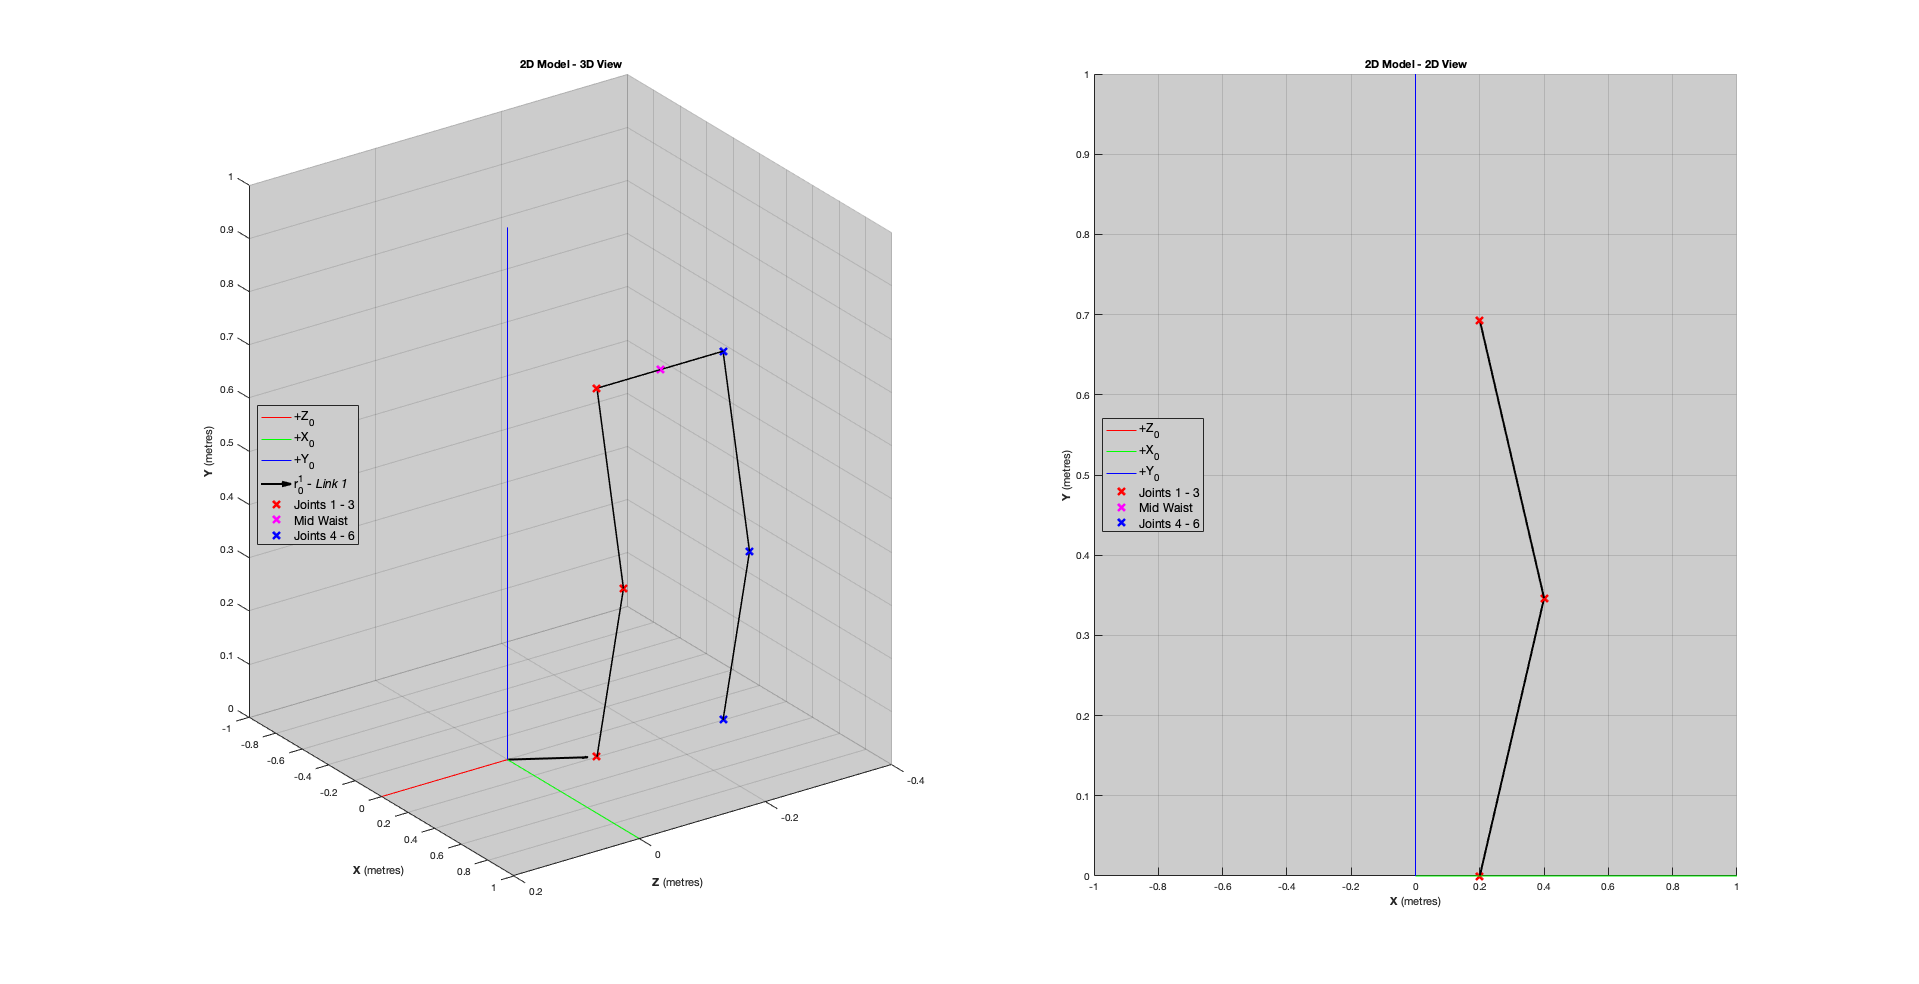
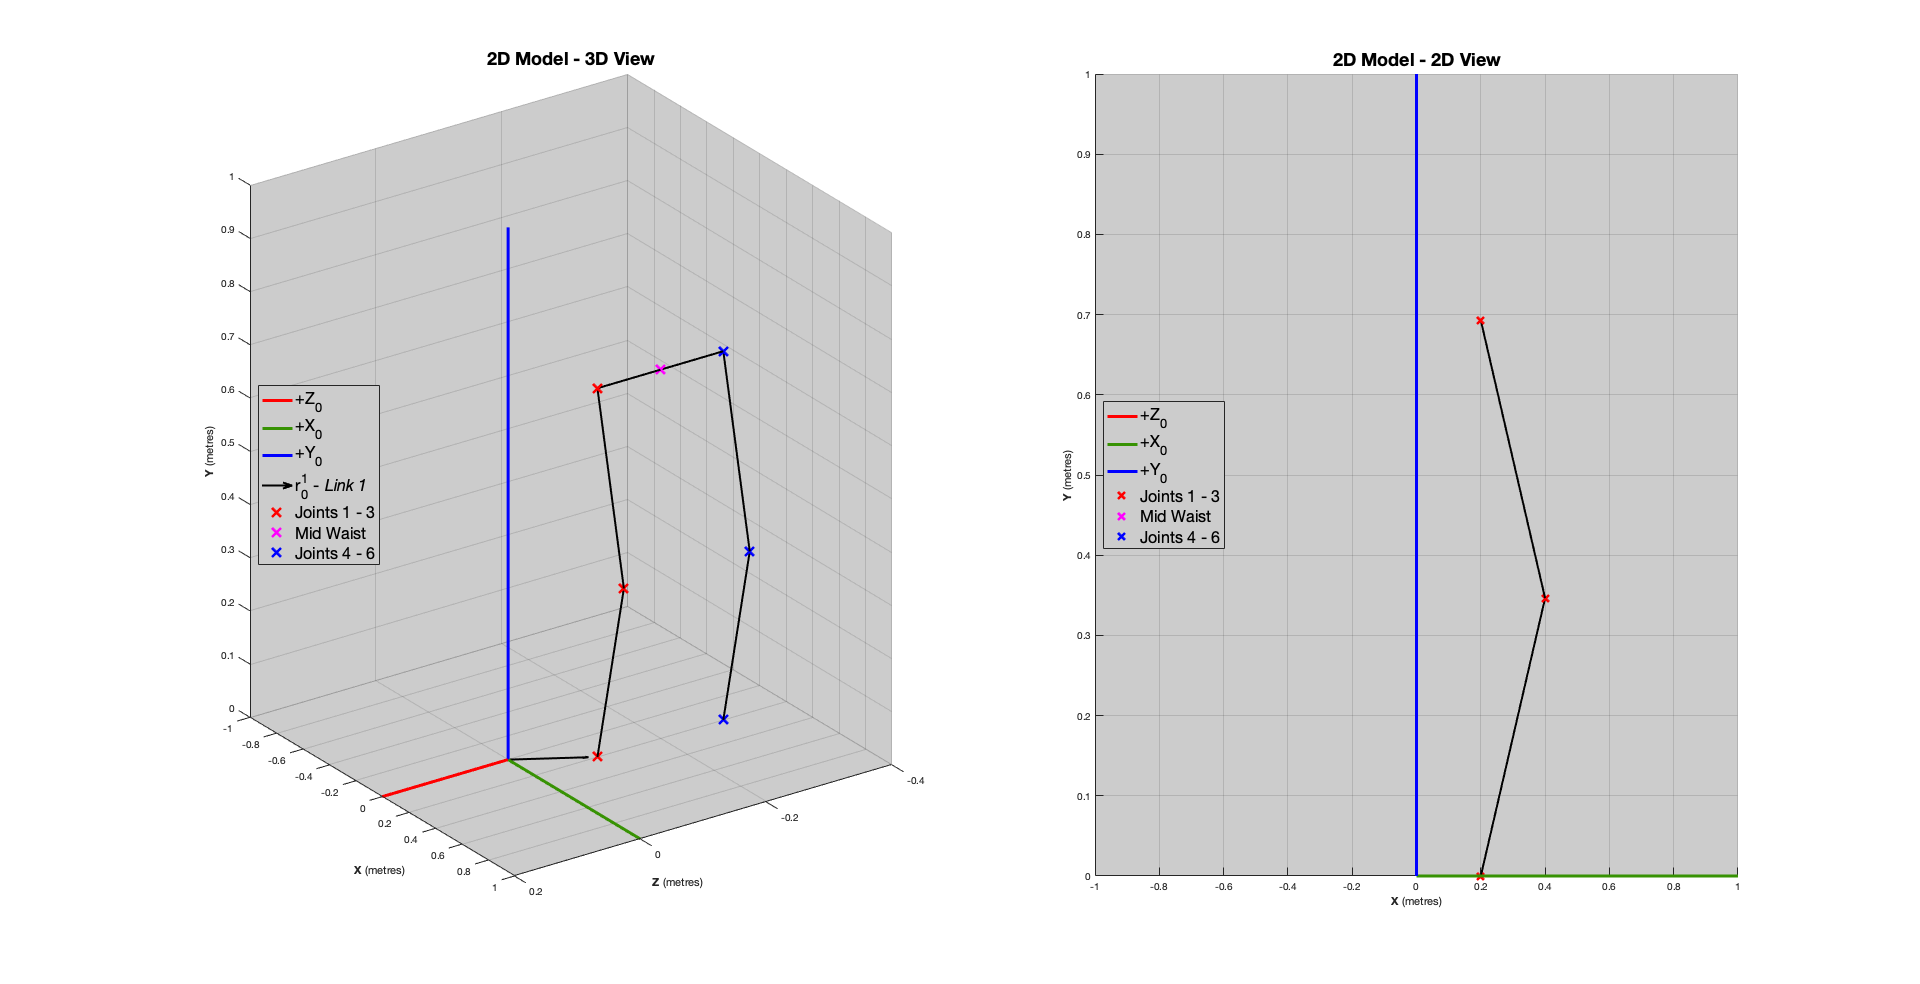
Update Figures

diff --git a/MatLab/2D-QuasiStatic/main.m b/MatLab/2D-QuasiStatic/main.m
@@ -59,43 +59,43 @@ InitialFigure = figure(1);
         view(145,20);
         [~, ~, HomegeneousTransforms] = k(model.q(:,i), params);
         % ZERO:   Z      X      Y
-        plot3([0 1], [0 0], [0 0],'r', 'LineWidth',1); % Z
-        plot3([0 0], [0 1], [0 0],'g', 'LineWidth',1); % X
-        plot3([0 0], [0 0], [0 1],'b', 'LineWidth',1); % Y
+        plot3([0 1], [0 0], [0 0],'r', 'LineWidth',3); % Z
+        plot3([0 0], [0 1], [0 0], 'LineWidth',3,'Color','#379203'); % X
+        plot3([0 0], [0 0], [0 1],'b', 'LineWidth',3); % Y
         quiver3(0,0,0,model.r01g(3,1),model.r01g(1,1),0,'LineWidth',2,'Color','k','ShowArrowHead','on')
-        title("2D Model - 3D View");
+        title("2D Model - 3D View",'FontSize',18);
         xlabel('{\bfZ} (metres)');
         ylabel('{\bfX} (metres)');
         zlabel('{\bfY} (metres)');
         % MAIN COMPONENTS
         r01 = HomegeneousTransforms.A01(1:3,4);
-        plot3(r01(3), r01(1), r01(2), 'rx', 'LineWidth',3,'MarkerSize',8);
+        plot3(r01(3), r01(1), r01(2), 'rx', 'LineWidth',3,'MarkerSize',10);
         r02 = HomegeneousTransforms.A02(1:3,4);
         plot3([r01(3) r02(3)], [r01(1) r02(1)], [r01(2) r02(2)],...
-            'k', 'LineWidth',1.5);
-        plot3(r02(3), r02(1), r02(2) ,'rx', 'LineWidth',3,'MarkerSize',8);
+            'k', 'LineWidth',2);
+        plot3(r02(3), r02(1), r02(2) ,'rx', 'LineWidth',3,'MarkerSize',10);
         r03 = HomegeneousTransforms.A03(1:3,4);
         plot3([r02(3) r03(3)], [r02(1) r03(1)], [r02(2) r03(2)],...
-            'k', 'LineWidth',1.5);
-        plot3(r03(3), r03(1), r03(2), 'rx', 'LineWidth',3,'MarkerSize',8);
+            'k', 'LineWidth',2);
+        plot3(r03(3), r03(1), r03(2), 'rx', 'LineWidth',3,'MarkerSize',10);
         r0H = HomegeneousTransforms.A0H(1:3,4);
-        plot3(r0H(3), r0H(1), r0H(2), 'mx', 'LineWidth',3,'MarkerSize',8);
+        plot3(r0H(3), r0H(1), r0H(2), 'mx', 'LineWidth',3,'MarkerSize',10);
         r04 = HomegeneousTransforms.A04(1:3,4);
         plot3([r03(3) r04(3)], [r03(1) r04(1)], [r03(2) r04(2)],...
-            'k', 'LineWidth',1.5);
-        plot3(r04(3), r04(1), r04(2), 'bx', 'LineWidth',3,'MarkerSize',8);
+            'k', 'LineWidth',2);
+        plot3(r04(3), r04(1), r04(2), 'bx', 'LineWidth',3,'MarkerSize',10);
         r05 = HomegeneousTransforms.A05(1:3,4);
         plot3([r04(3) r05(3)], [r04(1) r05(1)], [r04(2) r05(2)],...
-            'k', 'LineWidth',1.5);
-        plot3(r05(3), r05(1), r05(2), 'bx', 'LineWidth',3,'MarkerSize',8);
+            'k', 'LineWidth',2);
+        plot3(r05(3), r05(1), r05(2), 'bx', 'LineWidth',3,'MarkerSize',10);
         r06 = HomegeneousTransforms.A06(1:3,4);
         plot3([r05(3) r06(3)], [r05(1) r06(1)], [r05(2) r06(2)],...
-            'k', 'LineWidth',1.5);
-        plot3(r06(3), r06(1), r06(2), 'bx', 'LineWidth',3,'MarkerSize',8);
+            'k', 'LineWidth',2);
+        plot3(r06(3), r06(1), r06(2), 'bx', 'LineWidth',3,'MarkerSize',10);
 
         legend({'+Z_0','+X_0','+Y_0','{r}^1_0 - \it{Link 1}',...
                 'Joints 1 - 3','','','','','Mid Waist','','Joints 4 - 6'},...
-                'FontSize',12,Location='west');
+                'FontSize',16,Location='west');
         
         axis([-0.4,0.2, -1,1, 0,1]);
 
@@ -106,11 +106,11 @@ InitialFigure = figure(1);
         view(90,0);
 
         % ZERO:   Z      X      Y
-        plot3([0 1], [0 0], [0 0],'r', 'LineWidth',1); % Z
-        plot3([0 0], [0 1], [0 0],'g', 'LineWidth',1); % X
-        plot3([0 0], [0 0], [0 1],'b', 'LineWidth',1); % Y
+        plot3([0 1], [0 0], [0 0],'r', 'LineWidth',3); % Z
+        plot3([0 0], [0 1], [0 0], 'LineWidth',3,'Color','#379203'); % X
+        plot3([0 0], [0 0], [0 1],'b', 'LineWidth',3); % Y
         legend({'+Z_0','+X_0','+Y_0'},'Autoupdate','off','Location','west');
-        title("2D Model - 2D View");
+        title("2D Model - 2D View",'FontSize',18);
         xlabel('{\bfZ} (metres)');
         ylabel('{\bfX} (metres)');
         zlabel('{\bfY} (metres)');
@@ -141,7 +141,7 @@ InitialFigure = figure(1);
 
         legend({'+Z_0','+X_0','+Y_0',...
                 'Joints 1 - 3','','','','','Mid Waist','','Joints 4 - 6'},...
-                'FontSize',12,Location='west');
+                'FontSize',16,Location='west');
 
         axis([-0.4,0.2, -1,1, 0,1]);
 
